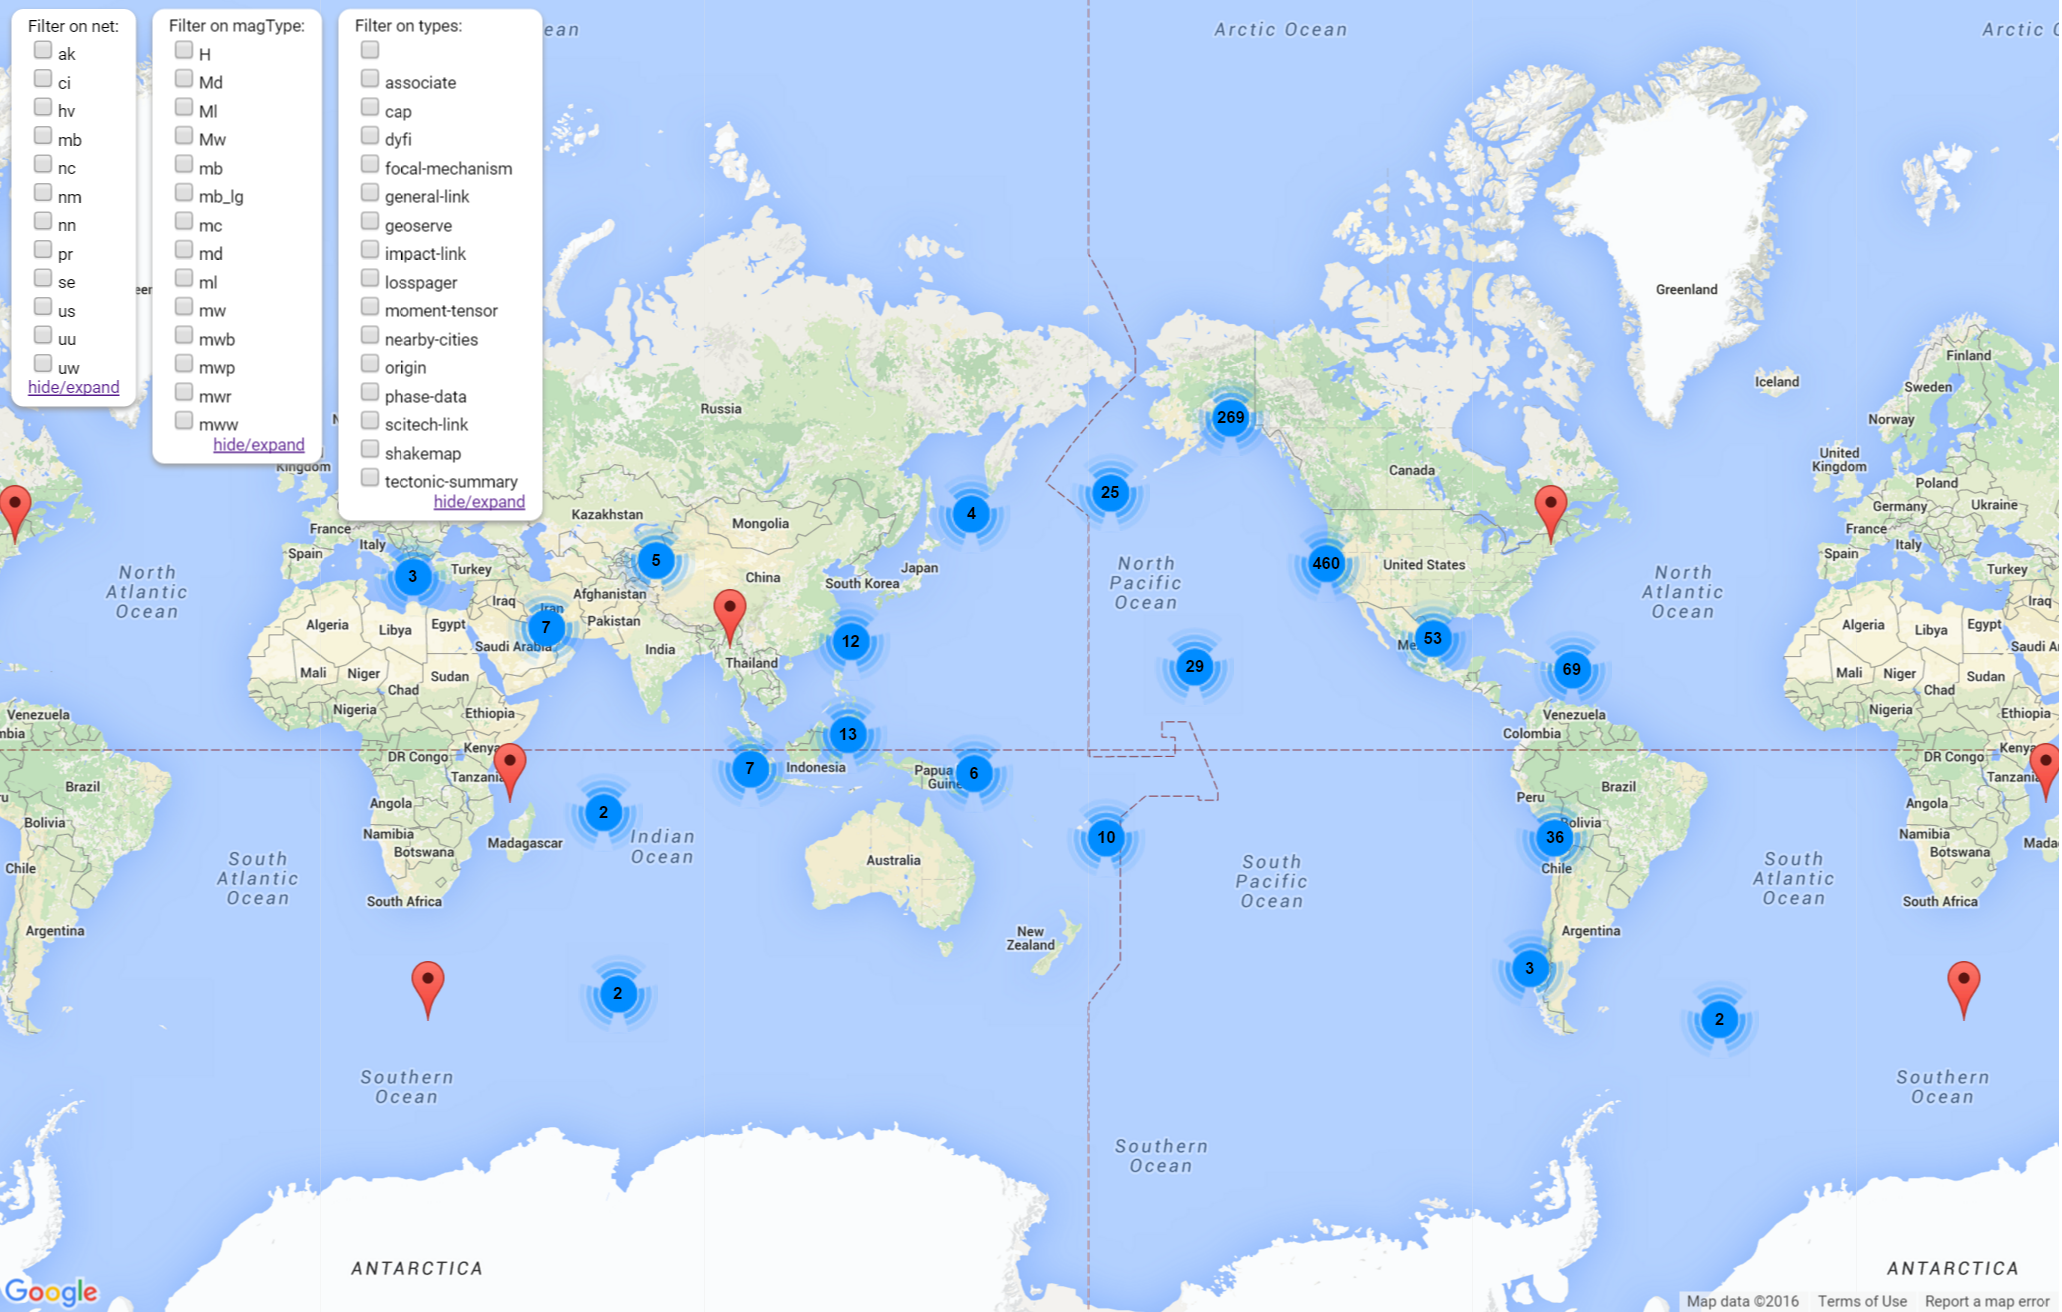
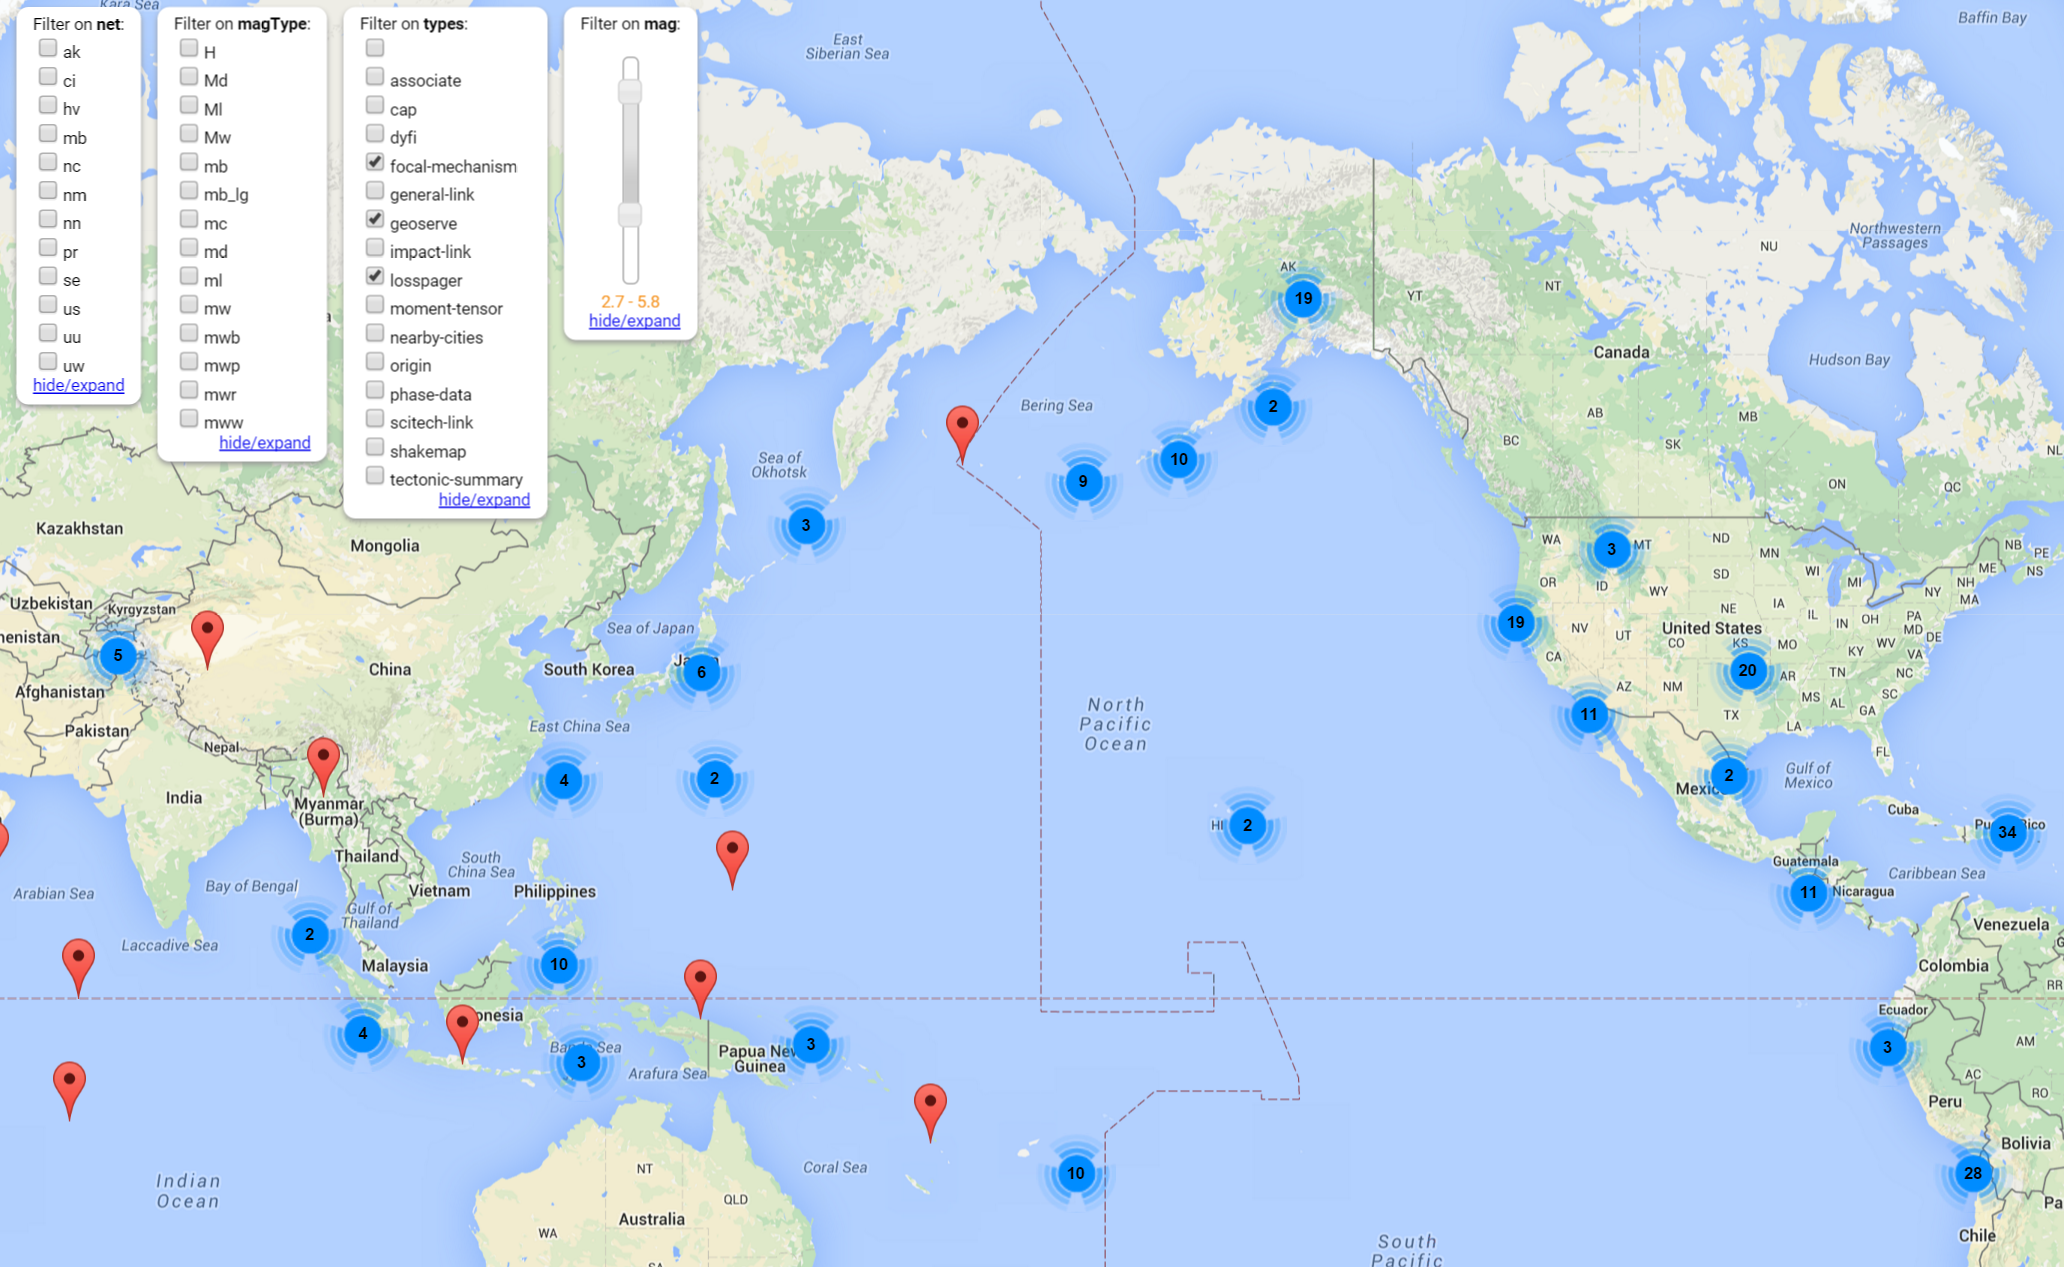
merged the fork by xiehaom7
https://github.com/xiehaom7/gmap_filter

diff --git a/filters_def.js b/filters_def.js
@@ -1,0 +1,119 @@
+function GmapEnumFilter(filter){
+	this.tag = filter.tag;
+	this.filterList = [];
+	this.selectedTags = [];
+};
+
+GmapEnumFilter.prototype.makeMarkerOption = function(value){
+	var valueArray = value.split(',');
+	this.filterList = this.filterList.concat(valueArray);
+	return valueArray;
+};
+
+GmapEnumFilter.prototype.buildFilter = function(callFunc){
+	var unique = function(arr) {
+		var a = arr.concat();
+		for(var i=0; i<a.length; ++i) {
+			for(var j=i+1; j<a.length; ++j) {
+				if(a[i] === a[j])
+					a.splice(j--, 1);
+			}
+		}
+		return a;
+	};
+	var filterTag = this.tag;
+	this.filterList = unique(this.filterList).sort();
+	$('body').append('<div id="' + this.tag + '" class="tags">' +
+		'<div>Filter on <b>' + this.tag + '</b>: </div>'+
+		'<div class="filter-list"></div>' +
+		'</div>');
+	$('#' + this.tag).append('<a href="#" class="toggle" style="float:right;">hide/expand</a>');
+	$('#' + this.tag + ' .toggle').on('click', function(e){
+		$('#' + filterTag + ' .filter-list').toggle('slow');
+	});
+	$.each(this.filterList, function(i, tagValue){
+		$('#' + filterTag + ' .filter-list').append(
+			'<label class="tag">' +
+			'<input type="checkbox" style="margin-right:3px" ' +
+			'value="' + tagValue + '"/>' + tagValue + '</label>');
+	});
+	$('#' + this.tag + ' input[type="checkbox"]').on('click', callFunc);
+};
+
+GmapEnumFilter.prototype.updateSelected = function(){
+	var selectedTags = [];
+	$.each($('#' + this.tag + ' input:checked'), function(i, label){
+		selectedTags.push($(label).val());
+	});
+	this.selectedTags = selectedTags;
+};
+
+GmapEnumFilter.prototype.checkSatisfied = function(marker){
+	var hasIntersect = function(a, b) {
+		for(var i = 0; i < a.length; i++)
+			for(var k = 0; k < b.length; k++)
+				if(a[i] == b[k])
+					return true;
+		return false;
+	};
+	if(this.selectedTags.length !== 0 && !(marker[this.tag] &&
+		hasIntersect(marker[this.tag], this.selectedTags))){
+		return false;
+	}
+	return true;
+}
+
+function GmapRangeFilter(filter){
+	this.tag = filter.tag;
+	this.max = this.min = this.upper = this.lower = false;
+};
+
+GmapRangeFilter.prototype.makeMarkerOption = function(value){
+	if(this.max === false || value > this.max)
+		this.max = this.upper = value;
+	if(this.min === false || value < this.min)
+		this.min = this.lower = value;
+	return value;
+};
+
+GmapRangeFilter.prototype.buildFilter = function(callFunc){
+	var filterTag = this.tag;
+	$('body').append(
+		'<div id="' + this.tag + '" class="tags">' +
+			'<div>Filter on <b>' + this.tag + '</b>: </div>'+
+			'<div id="filter-range" style="margin: 15px auto 5px;height:150px;"></div>' +
+			'<div type="text" id="value" style="color:#f6931f;text-align:center;"></div>' +
+		'</div>');
+	$('#' + this.tag).append('<a href="#" class="toggle" style="float:right;">hide/expand</a>');
+	$('#' + this.tag + ' .toggle').on('click', function(e){
+		$('#' + filterTag + ' #filter-range').toggle('slow');
+	});
+	$('#' + this.tag + ' #filter-range').slider({
+		orientation: "vertical",
+		range: true,
+		min: this.min,
+		max: this.max,
+		step: 0.1,
+		values: [ this.lower, this.upper ],
+		slide: function(event, ui){
+			$("#value").html( ui.values[ 0 ] + " - " + ui.values[ 1 ] );
+		},
+		change: function(event, ui){
+			callFunc();
+		}
+	});
+};
+
+GmapRangeFilter.prototype.updateSelected = function(){
+	this.lower = $('#' + this.tag + ' #filter-range').slider('values', 0);
+	this.upper = $('#' + this.tag + ' #filter-range').slider('values', 1);
+};
+
+GmapRangeFilter.prototype.checkSatisfied = function(marker){
+	if(!(marker[this.tag] && $.isNumeric(marker[this.tag]) && 
+		marker[this.tag] >= this.lower &&
+		marker[this.tag] <= this.upper)){
+		return false;
+	}
+	return true;
+}

diff --git a/gmap_filter.js b/gmap_filter.js
@@ -8,30 +8,22 @@ var GmapFilter = function(map, data, filters, options, markerFn){
 	setting = $.extend(setting, options);
 
 	var allMarkers = [];
-	var filterList = [];
+	var filtersOb = [];
 	var clusterStyle = { height: 53, width: 53, url: setting.clusterIconUrl };
 	var cluster = new MarkerClusterer(map, false, { styles: [clusterStyle,
 		clusterStyle, clusterStyle, clusterStyle, clusterStyle] });
-	$.each(filters, function(i, filter){ filterList[filter] = []; });
-
-	var unique = function(arr) {
-		var a = arr.concat();
-		for(var i=0; i<a.length; ++i) {
-			for(var j=i+1; j<a.length; ++j) {
-				if(a[i] === a[j])
-					a.splice(j--, 1);
-			}
-		}
-		return a;
-	};
-
-	var hasIntersect = function(a, b) {
-		for(var i = 0; i < a.length; i++)
-			for(var k = 0; k < b.length; k++)
-				if(a[i] == b[k])
-					return true;
-		return false;
-	};
+	$.each(filters, function(i, filter){
+		switch(filter.type){
+			case "enum":
+				filtersOb[i] = new GmapEnumFilter(filter);
+				break;
+			case "range":
+				filtersOb[i] = new GmapRangeFilter(filter);
+				break;
+			default:
+				alert("Un-recognized filter type: " + filter.type);
+		}		
+	});
 
 	var buildMarker = function(v, markerFn){
 		var markerOb = markerFn(v);		
@@ -50,58 +42,34 @@ var GmapFilter = function(map, data, filters, options, markerFn){
 			};
 		}
 
-		$.each(filters, function(i, filter){
-			if(markerOb[filter]){
-				markerOptions[filter] = markerOb[filter].split(',');
-				filterList[filter] =
-					filterList[filter].concat(markerOptions[filter]);
+		$.each(filtersOb, function(i, filter){
+			if(markerOb[filter.tag]){
+				markerOptions[filter.tag] = filter.makeMarkerOption(markerOb[filter.tag]);
 			}
 		});
 		return new google.maps.Marker(markerOptions);
 	};
 
 	var buildFilters = function(){
-		$.each(filters, function(i, filter){
-			filterList[filter] = unique(filterList[filter]).sort();
-
-			$('body').append('<div id="' + filter + '" class="tags">' +
-				'<div>Filter on ' + filter + ': </div>'+
-				'<div class="filter-list"></div>' +
-				'</div>');
-			$('#' + filter).append('<a href="#" class="toggle" style="float:right;">hide/expand</a>');
-			$('#' + filter + ' .toggle').on('click', function(e){
-				$('#' + filter + ' .filter-list').toggle('slow');
-			});
-			$.each(filterList[filter], function(i, tag){
-				$('#' + filter + ' .filter-list').append(
-					'<label class="tag">' +
-					'<input type="checkbox" style="margin-right:3px" ' +
-					'value="' + tag + '"/>' + tag + '</label>');
-			});
-			$('#' + filter + ' input[type="checkbox"]').on('click', filterMarkers);
+		$.each(filtersOb, function(i, filter){
+			filter.buildFilter(filterMarkers);
 			map.controls[google.maps.ControlPosition.TOP_LEFT].
-				push(document.getElementById(filter));
+				push(document.getElementById(filter.tag));
 		});
 	};
 
 	var filterMarkers = function(){
 		cluster.clearMarkers();
 
-		var selectedTags = [];
-		$.each(filters, function(i, filter){
-			selectedTags[filter] = [];
-			$.each($('#' + filter + ' input:checked'), function(i, label){
-				selectedTags[filter].push($(label).val());
-			});
+		$.each(filtersOb, function(i, filter){
+			filter.updateSelected();
 		});
 
 		var tmpMarkers = [];
 		$.each(allMarkers, function(i, marker){
 			var satisfied = true;
-			$.each(filters, function(i, filter){
-				var tags = selectedTags[filter];
-				if(tags.length !== 0 && !(marker[filter] &&
-					hasIntersect(marker[filter], tags))){
+			$.each(filtersOb, function(i, filter){
+				if (!filter.checkSatisfied(marker)){
 					satisfied = false;
 				}
 			});

diff --git a/example.html b/example.html
@@ -2,7 +2,10 @@
 <html>
   <head>
 	<script src="https://ajax.googleapis.com/ajax/libs/jquery/2.1.3/jquery.js"></script>
+	<link rel="stylesheet" href="https://ajax.googleapis.com/ajax/libs/jqueryui/1.11.4/themes/smoothness/jquery-ui.css">
+	<script src="https://ajax.googleapis.com/ajax/libs/jqueryui/1.11.4/jquery-ui.js"></script>
 	<script src="markerclusterer.js"></script>
+	<script src="filters_def.js"></script>
 	<script src="gmap_filter.js"></script>
 	<script src="https://maps.googleapis.com/maps/api/js?callback=initMap" async defer></script>
 	<style>
@@ -51,14 +54,12 @@
 	<div id="map"></div>
 	<script>
 
-
 	function initMap() {
 		var mapDiv = document.getElementById('map');
 		map = new google.maps.Map(mapDiv, {
 		  center: {lat: 45, lng: -100.546},
 		  zoom: 2, disableDefaultUI: true
 		});
-
 		var script = document.createElement('script');
 		script.setAttribute('src',
 			'https://storage.googleapis.com/maps-devrel/quakes.geo.json');
@@ -67,16 +68,20 @@
 
 	// Defines the callback function referenced in the jsonp file.
 	function eqfeed_callback(data) {
-		var filters = ['net', 'magType', 'types'];
+		var filters = [{type: 'enum', tag: 'net'}, 
+			{type: 'enum', tag: 'magType'}, 
+			{type: 'enum', tag: 'types'},
+			{type: 'range', tag: 'mag'}];
 		GmapFilter(map, data.features, filters, [], function(p){
 			var t = new Date(p.properties.time);
 			return {
 				lat: p.geometry.coordinates[1],
 				lng: p.geometry.coordinates[0],
-				title: p.properties.title + '\r\nstatus: ' + p.properties.status + '\r\ntime: ' + t.toString(),
+				title: p.properties.title + '\r\nstatus: ' + p.properties.status + '\r\ntime: ' + t.toString() + '\r\nmagnitude: ' + p.properties.mag,
 				net: p.properties.net,
 				magType: p.properties.magType,
-				types: p.properties.types
+				types: p.properties.types,
+				mag: p.properties.mag
 			};
 		});
 	}
